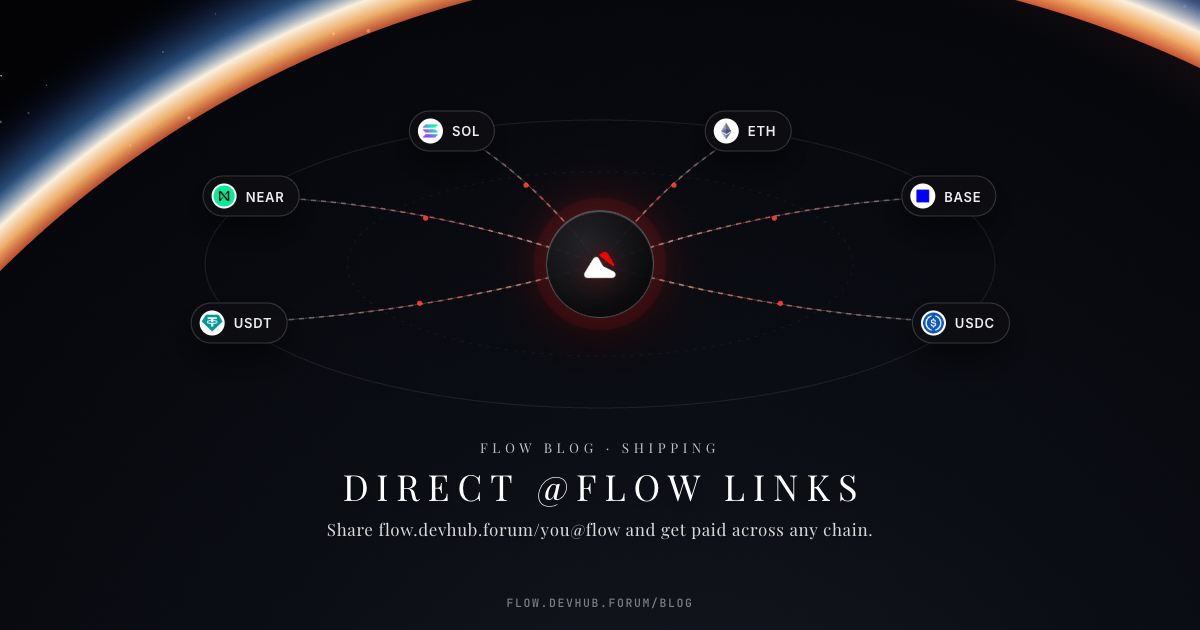
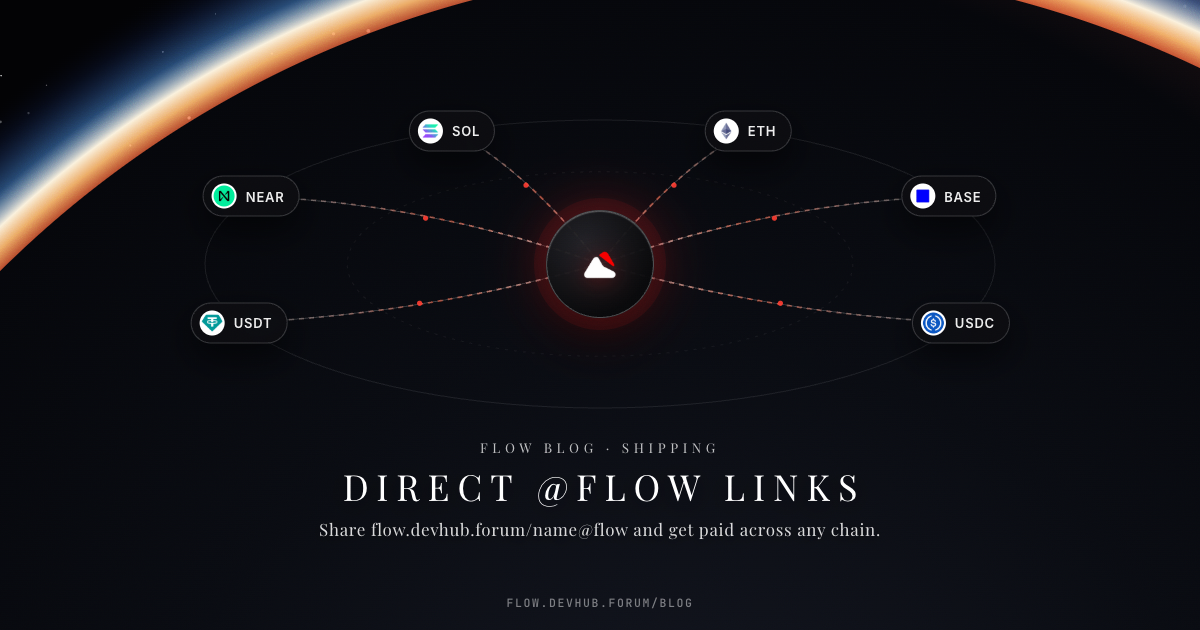
fix(blog): use neutral name@flow examples and prevent highlight card text overflow

Changed region(s): [[0.2467, 0.8143, 0.74, 0.8746]]

diff --git a/src/content/blog-posts.ts b/src/content/blog-posts.ts
@@ -46,9 +46,9 @@ export const BLOG_POSTS: readonly BlogPost[] = [
   {
     slug: "direct-flow-id-payment-links",
     title:
-      "Direct @flow Links: Get Paid With a Single URL Like flow.devhub.forum/yemi@flow",
+      "Direct @flow Links: Get Paid With a Single URL Like flow.devhub.forum/name@flow",
     summary:
-      "Every FLOW user now has a permanent personal payment URL. Share flow.devhub.forum/you@flow anywhere and anyone who opens it is taken through sign-in or onboarding straight into Send with your @flow ID already pre-filled.",
+      "Every FLOW user now has a permanent personal payment URL. Share flow.devhub.forum/name@flow anywhere and anyone who opens it is taken through sign-in or onboarding straight into Send with your @flow ID already pre-filled.",
     category: "Shipping",
     publishedAt: "2026-11-24",
     readTime: "6 min read",
@@ -57,7 +57,7 @@ export const BLOG_POSTS: readonly BlogPost[] = [
     ogImage: "/assets/blog/direct-flow-id-payment-links.png",
     accent: "from-emerald-500/14 via-teal-500/6 to-transparent",
     highlights: [
-      { label: "Personal URL", value: "flow.devhub.forum/<you>@flow" },
+      { label: "Personal URL", value: "flow.devhub.forum/name@flow" },
       { label: "Direct same-asset", value: "0% FLOW fee" },
       { label: "Cross-asset route", value: "0.3% via NEAR Intents" },
     ],
@@ -68,7 +68,7 @@ export const BLOG_POSTS: readonly BlogPost[] = [
         paragraphs: [
           "Even when two people both want to settle on-chain, the conversation almost always stalls at the exact same moment: which network are you on, which stablecoin do you want, and can you paste your 44-character Solana public key or 64-character NEAR implicit address?",
           "On the web, we solved this decades ago with URLs. You do not ask someone for an IP address to visit a profile or send a message; you drop a short, human-readable link. When we built @flow IDs, the natural next step was making every @flow handle work directly as a live payment link right at the root of FLOW.",
-          "Today, every claimed @flow ID automatically gets a permanent direct URL at flow.devhub.forum/<handle>@flow, such as flow.devhub.forum/yemi@flow. Drop it in your social bio, a group chat, an email signature, or a client message, and anyone who clicks it lands directly in a payment flow addressed to you.",
+          "Today, every claimed @flow ID automatically gets a permanent direct URL at flow.devhub.forum/name@flow. Drop it in your social bio, a group chat, an email signature, or a client message, and anyone who clicks it lands directly in a payment flow addressed to you.",
         ],
       },
       {
@@ -77,22 +77,22 @@ export const BLOG_POSTS: readonly BlogPost[] = [
           "We designed direct @flow links to adapt automatically depending on whether the person clicking your link already has an active FLOW session or is meeting FLOW for the very first time:",
         ],
         bullets: [
-          "Already signed in to FLOW: opening flow.devhub.forum/yemi@flow detects your active session on the server and redirects straight to /app/send?to=yemi@flow. The Send hub is skipped automatically and yemi@flow is pre-filled as the recipient.",
-          "Signed out or brand new to FLOW: visitors land on a clean Pay yemi@flow card that confirms the @flow handle is verified and active, shows transparent fees upfront (0% on direct same-asset sends, 0.3% on cross-asset transfers), and offers a single Continue to Send button.",
-          "Returning users signing back in: as soon as they authenticate with Google or an 8-digit Email OTP code, FLOW remembers who they came to pay and routes them straight into Send with yemi@flow locked in.",
-          "Brand-new users: after signing up, FLOW provisions their non-custodial multi-chain wallet across NEAR, Solana, Base, and Ethereum, lets them claim their own permanent @flow ID, and then drops them straight into Send targeting yemi@flow without losing context.",
+          "Already signed in to FLOW: opening flow.devhub.forum/name@flow detects your active session on the server and redirects straight to /app/send?to=name@flow. The Send hub is skipped automatically and name@flow is pre-filled as the recipient.",
+          "Signed out or brand new to FLOW: visitors land on a clean Pay name@flow card that confirms the @flow handle is verified and active, shows transparent fees upfront (0% on direct same-asset sends, 0.3% on cross-asset transfers), and offers a single Continue to Send button.",
+          "Returning users signing back in: as soon as they authenticate with Google or an 8-digit Email OTP code, FLOW remembers who they came to pay and routes them straight into Send with name@flow locked in.",
+          "Brand-new users: after signing up, FLOW provisions their non-custodial multi-chain wallet across NEAR, Solana, Base, and Ethereum, lets them claim their own permanent @flow ID, and then drops them straight into Send targeting name@flow without losing context.",
         ],
       },
       {
         heading: "Preserving payment intent across Google OAuth and onboarding",
         paragraphs: [
-          "Redirecting a logged-in user to /app/send?to=yemi@flow is straightforward. The harder engineering problem is making sure a brand-new user who clicks a link in a DM, signs up through Google OAuth (which leaves our domain and returns through a callback route), waits a few seconds for multi-chain MPC wallet provisioning, and claims their own @flow handle still lands on the exact recipient they clicked in the first place.",
-          "To make that handoff reliable across every authentication path, we combine validated query parameters (?to=yemi@flow) with a short-lived first-party SameSite=Lax cookie (flow_pending_send_to). When a visitor opens a direct @flow link, the target handle is validated against FLOW's handle rules, verified against active mainnet wallets on the server, and persisted before sign-in begins.",
+          "Redirecting a logged-in user to /app/send?to=name@flow is straightforward. The harder engineering problem is making sure a brand-new user who clicks a link in a DM, signs up through Google OAuth (which leaves our domain and returns through a callback route), waits a few seconds for multi-chain MPC wallet provisioning, and claims their own @flow handle still lands on the exact recipient they clicked in the first place.",
+          "To make that handoff reliable across every authentication path, we combine validated query parameters (?to=name@flow) with a short-lived first-party SameSite=Lax cookie (flow_pending_send_to). When a visitor opens a direct @flow link, the target handle is validated against FLOW's handle rules, verified against active mainnet wallets on the server, and persisted before sign-in begins.",
           "Both our server routes (/sign-in, /onboarding, and /app/send) and client onboarding handoff read that pending recipient, route directly into the Send flow once the wallet is ready, and immediately clear the cookie once consumed so returning home always starts completely fresh.",
         ],
         callout: {
           title: "Privacy-first public lookup",
-          body: "Opening flow.devhub.forum/<handle>@flow only checks whether a claimed handle exists and has an active mainnet wallet. It never exposes private email addresses, wallet balances, or raw deposit keys to unauthenticated visitors.",
+          body: "Opening flow.devhub.forum/name@flow only checks whether a claimed handle exists and has an active mainnet wallet. It never exposes private email addresses, wallet balances, or raw deposit keys to unauthenticated visitors.",
         },
       },
       {
@@ -100,7 +100,7 @@ export const BLOG_POSTS: readonly BlogPost[] = [
         paragraphs: [
           "Direct @flow links pair naturally with the streamlined Send flow we rolled out alongside them. Instead of crowding every field onto one busy form, Send now moves cleanly through four focused stages: Your asset, Amount, Recipient, and Review & Pay.",
           "First, you pick which asset in your wallet will fund the payment. Next, you enter the amount on a distraction-free centered Amount screen with live USD and asset toggling, a quick wallet balance readout, and a smart Max button that automatically reserves room for network gas and any cross-asset platform fee.",
-          "When you advance to Recipient, yemi@flow is already pre-filled and automatically resolves to the recipient's verified address on whichever destination asset and network you choose. Even if you switch the destination from NEAR to Solana or Base, the @flow ID stays intact and re-resolves automatically. Add an optional memo, inspect the live quote with both token and USD values, and Slide to Pay.",
+          "When you advance to Recipient, name@flow is already pre-filled and automatically resolves to the recipient's verified address on whichever destination asset and network you choose. Even if you switch the destination from NEAR to Solana or Base, the @flow ID stays intact and re-resolves automatically. Add an optional memo, inspect the live quote with both token and USD values, and Slide to Pay.",
         ],
       },
       {
@@ -109,22 +109,22 @@ export const BLOG_POSTS: readonly BlogPost[] = [
           "FLOW now gives you two complementary ways to get paid, depending on the situation:",
         ],
         bullets: [
-          "Use your Direct @flow Link (flow.devhub.forum/you@flow) as your permanent personal handle URL. It is ideal for social bios, personal QR codes, splitting dinner with friends, tips, and fast wallet-to-wallet transfers where the sender pays from their FLOW wallet (or signs up in seconds).",
+          "Use your Direct @flow Link (flow.devhub.forum/name@flow) as your permanent personal handle URL. It is ideal for social bios, personal QR codes, splitting dinner with friends, tips, and fast wallet-to-wallet transfers where the sender pays from their FLOW wallet (or signs up in seconds).",
           "Use a Payment Link from the Request tab when you want to lock a specific invoice amount, set a maximum number of payers, configure who covers cross-chain routing fees, or let someone pay directly from an external wallet or exchange without creating a FLOW account.",
         ],
       },
       {
         heading: "How to share your direct link right now",
         paragraphs: [
-          "If you have already claimed your @flow ID, your direct link is live immediately. Open Profile inside FLOW, look under Unique Flow ID, and tap Copy link to copy https://flow.devhub.forum/<yourhandle>@flow to your clipboard.",
-          "When you paste your link into X, Telegram, WhatsApp, Discord, or iMessage, FLOW automatically serves a rich link preview card titled Pay <yourhandle>@flow so people know the link is legitimate before they even tap it.",
+          "If you have already claimed your @flow ID, your direct link is live immediately. Open Profile inside FLOW, look under Unique Flow ID, and tap Copy link to copy https://flow.devhub.forum/name@flow to your clipboard.",
+          "When you paste your link into X, Telegram, WhatsApp, Discord, or iMessage, FLOW automatically serves a rich link preview card titled Pay name@flow so people know the link is legitimate before they even tap it.",
         ],
       },
     ],
     cta: {
       title: "Claim your @flow ID and get your direct link",
       description:
-        "Sign in to FLOW, claim your permanent @flow handle, and start sharing your own flow.devhub.forum/<you>@flow link today.",
+        "Sign in to FLOW, claim your permanent @flow handle, and start sharing your own flow.devhub.forum/name@flow link today.",
       href: "/sign-in",
       label: "Claim your @flow link",
     },

diff --git a/src/app/blog/blog-index-client.tsx b/src/app/blog/blog-index-client.tsx
@@ -178,12 +178,12 @@ export function BlogIndexClient({ posts }: { posts: readonly BlogPost[] }) {
                   {featuredPost.highlights.map((item) => (
                     <div
                       key={item.label}
-                      className="rounded-2xl border border-[#E6E2DA]/80 dark:border-white/[0.08] bg-white/80 dark:bg-black/25 px-3.5 py-2.5"
+                      className="min-w-0 overflow-hidden rounded-2xl border border-[#E6E2DA]/80 dark:border-white/[0.08] bg-white/80 dark:bg-black/25 px-3.5 py-2.5"
                     >
                       <div className="text-[10.5px] font-medium text-neutral-500 dark:text-neutral-400">
                         {item.label}
                       </div>
-                      <div className="mt-0.5 text-xs font-semibold text-[#0B0B0B] dark:text-white">
+                      <div className="mt-0.5 text-xs font-semibold text-[#0B0B0B] dark:text-white [overflow-wrap:anywhere] leading-snug">
                         {item.value}
                       </div>
                     </div>

diff --git a/src/app/blog/[slug]/page.tsx b/src/app/blog/[slug]/page.tsx
@@ -182,12 +182,12 @@ export default async function BlogPostPage({
             {post.highlights.map((item) => (
               <div
                 key={item.label}
-                className="rounded-2xl border border-[#E6E2DA]/80 dark:border-white/[0.08] bg-white/85 dark:bg-black/25 px-4 py-3"
+                className="min-w-0 overflow-hidden rounded-2xl border border-[#E6E2DA]/80 dark:border-white/[0.08] bg-white/85 dark:bg-black/25 px-4 py-3"
               >
                 <div className="text-[11px] font-medium text-neutral-500 dark:text-neutral-400">
                   {item.label}
                 </div>
-                <div className="mt-0.5 text-sm font-semibold text-[#0B0B0B] dark:text-white">
+                <div className="mt-0.5 text-sm font-semibold text-[#0B0B0B] dark:text-white [overflow-wrap:anywhere] leading-snug">
                   {item.value}
                 </div>
               </div>
